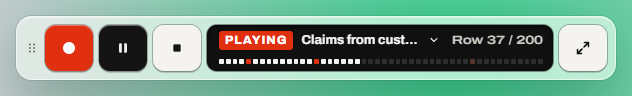
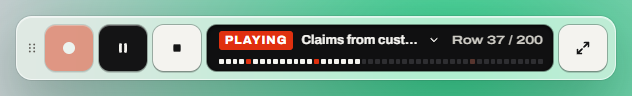
docs(design): triggered runs while editing, and the last open questions
A trigger that fires while the window is open shows the player in a
free corner, clear of the window and of the macro's clicks, and a
notice with Stop in the window; the open macro stays locked and isn't
drawn as playing, and a busy Relay skips the trigger and says so. The
prototype has a button to fire one, the tests two new states and
Hannah's second task (64 of 64 clean, 16 of 16 tasks). The round also
caught the trigger's announcement being overwritten, a disabled Pause
on the open macro and a record key left on during playback.

Decided: Archivo moves to its variable package, and the prototype stays
in the repo until m24-redesign merges, then goes.

Changed region(s): [[0.0601, 0.25, 0.1503, 0.75]]

diff --git a/Design/redesign/app.js b/Design/redesign/app.js
@@ -179,11 +179,13 @@ const st = {
   firstChoice: "ctrlshift",
   frame: q.get("frame"),
   playerMode: q.get("mode") === "player",
+  trigger: null, // { macro, by }: a run a trigger started
   macroSection: q.get("msec") ?? "play", // play | runs: the Macro tab's open section
 };
 if (q.get("step")) { const m = MACROS.find((x) => x.id === st.macroId); const st0 = m?.steps[Number(q.get("step")) - 1]; if (st0) { st.sel = new Set([st0.id]); st.cursor = st0.id; } }
 if (q.has("playing")) { st.session = "playing"; st.playerMacro = st.macroId; st.t = Number(q.get("playing")) || 6.1; st.row = 37; }
 if (q.has("recording")) { st.session = "recording"; st.playerMacro = st.macroId; st.recSteps = 14; }
+if (q.has("triggered")) { st.trigger = { macro: "timesheet", by: "Schedule" }; st.playerMacro = "timesheet"; st.session = "playing"; st.t = 3.2; }
 if (q.has("error")) { st.playerMacro = st.macroId; st.error = { text: "Pixel check timed out · step 10 · row 112", step: 10 }; st.failed = { macro: st.macroId, step: 10 }; }
 
 const macro = () => MACROS.find((m) => m.id === st.macroId) ?? MACROS[0];
@@ -307,10 +309,11 @@ function envBar() {
     <strong>PROTOTYPE</strong>
     <label>Screen <select data-env="screen">${["firstrun", "library", "activity", "editor", "settings"].map((x) => opt(x, st.screen, x === "firstrun" ? "first run" : x)).join("")}</select></label>
     <label>Windows <select data-env="os">${opt("win11", st.os, "11")}${opt("win10", st.os, "10")}</select></label>
-    <label>Transparency effects <select data-env="transparency">${opt("on", st.transparency ? "on" : "off", "on")}${opt("off", st.transparency ? "on" : "off", "off (or Remote Desktop)")}</select></label>
-    <label>Windows reduce motion <select data-env="systemMotion">${opt("full", st.systemMotion, "off")}${opt("reduce", st.systemMotion, "on")}</select></label>
+    <label>Transparency <select data-env="transparency">${opt("on", st.transparency ? "on" : "off", "on")}${opt("off", st.transparency ? "on" : "off", "off")}</select></label>
+    <label>Reduce motion <select data-env="systemMotion">${opt("full", st.systemMotion, "off")}${opt("reduce", st.systemMotion, "on")}</select></label>
     <label>Keyboard <select data-env="layout">${Object.keys(LAYOUT_NAME).map((k) => opt(k, st.layout, LAYOUT_NAME[k])).join("")}</select></label>
-    <label>Window <select data-env="winSize">${opt("min", st.winSize, "760 × 520 (minimum)")}${opt("default", st.winSize, "944 × 612 (default)")}${opt("large", st.winSize, "1280 × 800")}</select></label>
+    <label>Window <select data-env="winSize">${opt("min", st.winSize, "760 × 520")}${opt("default", st.winSize, "944 × 612")}${opt("large", st.winSize, "1280 × 800")}</select></label>
+    <button type="button" data-act="env-trigger" title="Fire the schedule of “Fill weekly timesheet”">Fire a trigger</button>
     <button type="button" data-act="env-reset">Reset</button>
   </div>`;
 }
@@ -421,14 +424,16 @@ function activityScreen() {
 function recordKey(withLabel) {
   const live = st.session === "recording" || st.session === "countdown";
   const k = comboText(st.keys.record);
+  const busy = st.session === "playing" || st.session === "paused" ? " disabled" : "";
   return withLabel
-    ? `<button class="key red${live ? " live" : ""}" type="button" data-act="record" data-fid="rec-lib" aria-label="${live ? "Stop recording" : "Record"} (${k})" title="${live ? "Stop recording" : "Record"} (${k})"><span class="rec-dot"></span>${live ? "Stop" : "Record"}</button>`
-    : `<button class="key red round${live ? " live" : ""}" type="button" data-act="record" data-fid="rec" aria-label="${live ? "Stop recording" : "Record a new macro"} (${k})" title="${live ? "Stop recording" : "Record a new macro"} (${k})"><span class="rec-dot"></span></button>`;
+    ? `<button class="key red${live ? " live" : ""}" type="button" data-act="record" data-fid="rec-lib"${busy} aria-label="${live ? "Stop recording" : "Record"} (${k})" title="${live ? "Stop recording" : "Record"} (${k})"><span class="rec-dot"></span>${live ? "Stop" : "Record"}</button>`
+    : `<button class="key red round${live ? " live" : ""}" type="button" data-act="record" data-fid="rec"${busy} aria-label="${live ? "Stop recording" : "Record a new macro"} (${k})" title="${live ? "Stop recording" : "Record a new macro"} (${k})"><span class="rec-dot"></span></button>`;
 }
 
 function editorScreen() {
   const m = macro();
   const playing = st.session === "playing" || st.session === "paused";
+  const otherRun = playing && st.playerMacro !== m.id;
   const pk = comboText(st.keys.play);
   const chips = [];
   chips.push(m.data ? `Each row (${m.data.rows})` : m.play.forever ? "∞" : `×${m.play.repeat}`);
@@ -446,7 +451,12 @@ function editorScreen() {
       <button class="key small icon-only" type="button" aria-label="Redo (Ctrl + Y)" title="Redo (Ctrl + Y)" data-act="redo" data-fid="redo"${st.redo.length && !playing ? "" : " disabled"}>${icon("redo")}</button>
       <span style="width:4px"></span>
       ${recordKey(false)}
-      <button class="key ink" type="button" data-act="play" data-fid="play" aria-label="${st.session === "playing" ? "Pause" : "Play"} (${pk})" title="${st.session === "playing" ? "Pause" : "Play from the playhead"} (${pk})">${icon(st.session === "playing" ? "pause" : "play", 14)}<span class="hide-tight">${st.session === "playing" ? "Pause" : "Play"}</span></button>
+      ${(() => {
+        const pausing = st.session === "playing" && !otherRun;
+        const runName = otherRun ? MACROS.find((x) => x.id === st.playerMacro)?.name : "";
+        const tip = otherRun ? `“${runName}” is running` : `${pausing ? "Pause" : "Play from the playhead"} (${pk})`;
+        return `<button class="key ink" type="button" data-act="play" data-fid="play"${otherRun ? " disabled" : ""} aria-label="${pausing ? "Pause" : "Play"} (${pk})" title="${esc(tip)}">${icon(pausing ? "pause" : "play", 14)}<span class="hide-tight">${pausing ? "Pause" : "Play"}</span></button>`;
+      })()}
       ${playing ? `<button class="key small icon-only" type="button" aria-label="Stop (Esc)" title="Stop (Esc)" data-act="stop" data-fid="stop">${icon("stop", 14)}</button>` : ""}
       <button class="chip" type="button" data-act="chips" data-fid="chips" aria-label="${esc(chipName)}" title="${esc(chipName)}">${chips.map((c) => `<span>${esc(c)}</span>`).join('<span aria-hidden="true" class="muted">·</span>')}${m.play.stopOnKey ? "" : `<span aria-hidden="true" class="muted">·</span><span style="color:var(--red-text)">keys don't stop it</span>`}</button>
       <button class="key ghost small icon-only" type="button" aria-label="More" title="More" aria-haspopup="menu" data-act="menu" data-menu="macro" data-fid="macro-more">${icon("more")}</button>
@@ -484,8 +494,9 @@ function stepsPlate(m) {
     const idx = m.steps.indexOf(x);
     const num = x.kind === "move" ? "" : `${idx + 1}`;
     const selected = st.sel.has(x.id);
-    const played = (st.session === "playing" || st.session === "paused" || st.t > 0) && x.t <= st.t;
-    const now = st.session === "playing" && x.t <= st.t && st.t - x.t < 0.5;
+    const here = st.playerMacro === m.id;
+    const played = here && (st.session === "playing" || st.session === "paused" || st.t > 0) && x.t <= st.t;
+    const now = here && st.session === "playing" && x.t <= st.t && st.t - x.t < 0.5;
     html.push(`<div class="step ${x.kind === "move" ? "move-row" : CAT[x.kind]}${selected ? "" : ""}${played ? " played" : ""}${now ? " now" : ""}${x.id === failedStep ? " failed" : ""}${x.id === cursor ? " cursor" : ""}"
       role="option" id="row-${x.id}" aria-selected="${selected}" data-row="${x.id}" aria-label="Step ${num}: ${esc(KIND_NAME[x.kind])}, ${esc(stepDetail(x))}${x.id === failedStep ? ", failed in the last run" : ""}">
       <span class="t num">${fmt(x.t)}</span>${glyph(x.kind)}<span class="what"><b>${esc(KIND_NAME[x.kind])}</b> <span>· ${esc(stepDetail(x))}</span></span><span class="end num">${x.id === failedStep ? "Timed out" : esc(stepEnd(x))}</span>
@@ -512,13 +523,14 @@ function inspector(m) {
   const sel = [...st.sel].map((id) => m.steps.find((x) => x.id === id) ?? all.find((x) => x.id === id)).filter(Boolean);
   const isMacro = st.tab === "macro";
   let body;
-  const playingNow = st.session === "playing" || st.session === "paused";
+  const playingNow = (st.session === "playing" || st.session === "paused") && st.playerMacro === m.id;
   if (isMacro) body = macroPane(m);
   else if (playingNow) body = `<div id="now-pane" style="display:flex;flex-direction:column;gap:12px">${nowPane(m)}</div>`;
   else if (sel.length > 1) body = multiPane(m, sel);
   else if (sel.length === 1) body = stepPane(m, sel[0]);
   else body = `<div class="empty" style="padding:24px 0"><b>No step selected</b><span>Select a step to edit it, or open the Macro tab for how the macro plays and when it runs.</span></div>`;
-  const locked = st.session !== "idle" && !isMacro ? `<div class="notice">${icon("lock", 14)}Stop playback to edit steps. Speed and the other play options can still change.</div>` : "";
+  const runName = st.session !== "idle" && st.playerMacro !== m.id ? MACROS.find((x) => x.id === st.playerMacro)?.name : null;
+  const locked = st.session !== "idle" && !isMacro ? `<div class="notice">${icon("lock", 14)}${runName ? `Stop “${esc(runName)}” to edit steps.` : "Stop playback to edit steps. Speed and the other play options can still change."}</div>` : "";
   return `<div class="plate inspector${st.inspOpen ? " open" : ""}" role="region" aria-label="Inspector">
     <div style="display:flex;gap:8px;align-items:center">
       <div class="tabs${isMacro ? " second" : ""}" role="tablist" aria-label="Inspector" style="flex:1">
@@ -666,7 +678,7 @@ function viewPlate(m, open) {
   const keysL = m.steps.filter((x) => CAT[x.kind] === "keys").map((x) => { const d = Math.max(x.dur ?? 0.3, 0.3); const l = x.kind === "keys" ? x.combo.join(" ") : x.kind === "type" ? "“" + x.text + "”" : "Text"; return `<div class="blk ky" title="${esc(l)}" style="left:${pct(x.t)};width:calc(${pct(d)} - 2px)">${fits(d, l) ? `<span class="bl">${esc(l)}</span>` : ""}</div>`; }).join("");
   const logicL = m.steps.filter((x) => CAT[x.kind] === "logic").map((x) => { const d = Math.max(x.dur ?? 0.5, 0.5); const l = x.kind === "wait" ? "Wait" : x.kind === "pixel" ? "Wait for" : "Find"; return `<div class="blk lg" title="${l}" style="left:${pct(x.t)};width:calc(${pct(d)} - 2px)">${fits(d, l) ? `<span class="bl">${l}</span>` : ""}</div>`; }).join("");
   const pauses = m.steps.filter((x) => x.pause >= 1).map((x) => `<div class="blk ht" style="left:${pct(x.t - x.pause)};width:${pct(x.pause)}"></div>`).join("");
-  const cur = st.t || (m.steps.find((x) => x.id === st.cursor)?.t ?? 0);
+  const cur = (st.playerMacro === m.id ? st.t : 0) || (m.steps.find((x) => x.id === st.cursor)?.t ?? 0);
   const curStep = [...m.steps].reverse().find((x) => x.t <= cur);
   // Preview: balloons on clicks, a path through them.
   const sx = (v) => 18 + (v / 1920) * 264, sy = (v) => 10 + (v / 1080) * 130;
@@ -860,7 +872,7 @@ function firstArt(step) {
 
 function playerHtml() {
   const m = MACROS.find((x) => x.id === (st.playerMacro ?? st.macroId)) ?? macro();
-  const show = windowAway() || st.frame === "player";
+  const show = windowAway() || st.frame === "player" || !!st.trigger;
   const dur = duration(m) || 1;
   let state = `<span class="state">READY</span>`, right = `${fmtShort(0)} / ${fmtShort(dur)}`;
   if (st.session === "countdown") { state = `<span class="state live">GET READY</span>`; right = `<span class="digit" style="font-size:16px">${st.count}</span>`; }
@@ -879,7 +891,7 @@ function playerHtml() {
   const live = st.session === "recording" || st.session === "countdown";
   return `<div class="player glass${st.playerSize === "large" ? " big" : ""}${show ? "" : " hidden"}" role="group" aria-label="Relay player" ${show ? "" : 'aria-hidden="true"'}>
     <span class="grip" aria-hidden="true">${icon("grip", 14)}</span>
-    <button class="key red${live ? " live" : ""}" type="button" data-act="record" data-fid="p-rec" aria-label="${live ? "Stop recording" : "Record"} (${comboText(st.keys.record)})" title="${live ? "Stop recording" : "Record"}"><span class="rec-dot"></span></button>
+    <button class="key red${live ? " live" : ""}" type="button" data-act="record" data-fid="p-rec"${st.session === "playing" || st.session === "paused" ? " disabled" : ""} aria-label="${live ? "Stop recording" : "Record"} (${comboText(st.keys.record)})" title="${live ? "Stop recording" : "Record"}"><span class="rec-dot"></span></button>
     <button class="key ink" type="button" data-act="play" data-fid="p-play" aria-label="${st.session === "playing" ? "Pause" : "Play"} (${comboText(st.keys.play)})" title="${st.session === "playing" ? "Pause" : "Play"}"${live ? " disabled" : ""}>${icon(st.session === "playing" ? "pause" : "play")}</button>
     <button class="key" type="button" data-act="stop" data-fid="p-stop" aria-label="Stop (Esc)" title="Stop (Esc)">${icon("stop", 14)}</button>
     <div class="screen${st.done ? " flash" : ""}">
@@ -901,8 +913,11 @@ function exportedHtml() {
 }
 
 function toastsHtml() {
-  if (!st.toasts.length) return "";
-  return `<div class="toasts">${st.toasts.map((t) => `<div class="toast ${t.kind === "error" ? "error" : ""}" role="${t.kind === "error" ? "alert" : "status"}">
+  const tr = st.trigger && MACROS.find((x) => x.id === st.trigger.macro);
+  const notice = tr ? `<div class="toast run" role="status"><span class="rec-dot" aria-hidden="true"></span><span class="msg">Running “${esc(tr.name)}”, started by its ${esc(st.trigger.by.toLowerCase())}</span>
+    <button class="key small" type="button" data-act="stop-trigger" data-fid="stop-trigger">${icon("stop", 12)}Stop</button></div>` : "";
+  if (!st.toasts.length && !notice) return "";
+  return `<div class="toasts">${notice}${st.toasts.map((t) => `<div class="toast ${t.kind === "error" ? "error" : ""}" role="${t.kind === "error" ? "alert" : "status"}">
     <span class="msg">${esc(t.msg)}</span>${t.action ? `<button class="key small" type="button" data-act="toast-action" data-id="${t.id}" data-fid="toast-${t.id}">${esc(t.action.label)}</button>` : ""}
     <button class="key ghost small icon-only" type="button" aria-label="Dismiss" data-act="toast-close" data-id="${t.id}" data-fid="toastx-${t.id}" style="--key-fg:inherit">${icon("close", 12)}</button></div>`).join("")}</div>`;
 }
@@ -978,7 +993,7 @@ function render() {
     <div class="desktop">
       <div class="app-behind" aria-hidden="true"><div class="bar">Invoices.xlsx</div><span class="cell" style="left:12px;top:40px">ACME Ltd</span><span class="cell" style="left:140px;top:40px">F-1042</span><span class="cell" style="left:12px;top:62px">Globex</span><span class="cell" style="left:140px;top:62px">F-1043</span></div>
       ${win && st.frame !== "icons" ? `<div class="win-pos">${win}</div>` : win}
-      ${st.frame === "icons" ? "" : `<div class="player-pos">${playerHtml()}</div>`}
+      ${st.frame === "icons" ? "" : `<div class="player-pos${st.trigger && !windowAway() ? ` corner ${playerCorner()}` : ""}">${playerHtml()}</div>`}
       ${exportedHtml()}
       ${pickerHtml()}
       <div class="taskbar" aria-hidden="true"></div>
@@ -1067,13 +1082,34 @@ function stopRecording() {
   render();
   const nm = document.querySelector('[data-fid="name"]'); nm?.focus(); nm?.select();
 }
+function triggerRun(id, by) {
+  const m = MACROS.find((x) => x.id === id);
+  if (st.session !== "idle") {
+    RUNS.unshift({ macro: id, by, when: "Just now", ok: null, end: "Skipped: Relay was busy", dur: "", checks: [] });
+    toast(`Skipped “${m.name}”: Relay was busy`);
+    render(); return;
+  }
+  st.trigger = { macro: id, by }; st.playerMacro = id; st.t = 0; st.row = 1;
+  announce(`${m.name} started by its ${by.toLowerCase()}. Press ${comboText(st.keys.kill)} or Stop to stop it.`);
+  play();
+}
+// The corner the player takes during a triggered run: clear of the window and of the macro's clicks.
+function playerCorner() {
+  const win = document.querySelector(".window")?.getBoundingClientRect();
+  const m = MACROS.find((x) => x.id === st.trigger?.macro);
+  const clicks = (m?.steps ?? []).filter((x) => x.kind === "click").map((x) => [(x.x / 1920) * innerWidth, 40 + (x.y / 1080) * (innerHeight - 40)]);
+  const W = 600 * Math.min(zoom(), 1.5), H = 64 * Math.min(zoom(), 1.5), M = 16;
+  const rects = { "top-right": [innerWidth - M - W, 40 + M], "top-left": [M, 40 + M], "bottom-right": [innerWidth - M - W, innerHeight - 56 - H], "bottom-left": [M, innerHeight - 56 - H] };
+  const hits = ([x, y]) => (win && x < win.right && x + W > win.left && y < win.bottom && y + H > win.top) || clicks.some(([cx, cy]) => cx >= x && cx <= x + W && cy >= y && cy <= y + H);
+  return Object.keys(rects).find((k) => !hits(rects[k])) ?? "top-right";
+}
 function play() {
   if (st.session === "recording" || st.session === "countdown") return;
   if (st.session === "playing") { st.session = "paused"; clearTimer(); announce("Paused"); render(); return; }
   const m = MACROS.find((x) => x.id === (st.playerMacro ?? st.macroId)) ?? macro();
   st.playerMacro = m.id; st.error = null; st.done = false; st.menu = null;
   if (st.session !== "paused") { st.t = 0; st.row = 1; }
-  st.session = "playing"; announce(`Playing ${m.name}`); render();
+  st.session = "playing"; if (!st.trigger) announce(`Playing ${m.name}`); render();
   const dur = duration(m), t0 = performance.now(), from = st.t;
   timer = setInterval(() => {
     st.t = Math.min(dur, from + ((performance.now() - t0) / 1000) * 1.6 * m.play.speed);
@@ -1117,7 +1153,8 @@ function tickPlayback(m) {
 function finish(m) {
   clearTimer(); st.session = "idle"; st.done = true; st.t = duration(m);
   m.last = { ok: true, text: "Just now" };
-  RUNS.unshift({ macro: m.id, by: "Play", when: "Just now", ok: true, end: "Completed", dur: `${duration(m).toFixed(1)} s`, checks: [] });
+  RUNS.unshift({ macro: m.id, by: st.trigger?.by ?? "Play", when: "Just now", ok: true, end: "Completed", dur: `${duration(m).toFixed(1)} s`, checks: [] });
+  if (st.trigger) { st.trigger = null; st.t = 0; toast(`“${m.name}” finished`); }
   SOUND.done(); announce(`${m.name} finished.`);
   render();
   setTimeout(() => { st.done = false; render(); }, 1600);
@@ -1125,7 +1162,8 @@ function finish(m) {
 function fail(m, step, text) {
   clearTimer(); st.session = "idle"; st.error = { text, step }; st.failed = { macro: m.id, step }; st.t = m.steps[step - 1]?.t ?? st.t;
   m.last = { ok: false, text: "Just now" };
-  RUNS.unshift({ macro: m.id, by: "Play", when: "Just now", ok: false, end: `Pixel check timed out at step ${step}, row ${st.row}`, sub: "PolicyNo 88-1042", dur: "", step, checks: [] });
+  RUNS.unshift({ macro: m.id, by: st.trigger?.by ?? "Play", when: "Just now", ok: false, end: `Pixel check timed out at step ${step}, row ${st.row}`, sub: "PolicyNo 88-1042", dur: "", step, checks: [] });
+  st.trigger = null;
   SOUND.error(); announce(`${m.name} stopped: ${text}`);
   if (!windowAway()) toast(`${m.name} stopped: ${text.replace(/ · /g, ", ")}`, { kind: "error" });
   render();
@@ -1134,7 +1172,7 @@ function fail(m, step, text) {
 function stop() {
   const was = st.session; clearTimer();
   if (was === "recording" || was === "countdown") { if (was === "countdown") { st.session = "idle"; announce("Recording cancelled."); render(); return; } stopRecording(); return; }
-  st.session = "idle"; st.t = 0; st.done = false; if (was !== "idle") { SOUND.stop(); announce("Stopped."); }
+  st.session = "idle"; st.t = 0; st.done = false; st.trigger = null; if (was !== "idle") { SOUND.stop(); announce("Stopped."); }
   render();
 }
 
@@ -1335,6 +1373,8 @@ document.addEventListener("click", (e) => {
     case "first-skip": st.screen = "library"; return doRender();
     case "first-choice": st.firstChoice = t.dataset.v; return doRender();
     case "env-reset": location.search = ""; return;
+    case "env-trigger": return triggerRun("timesheet", "Schedule");
+    case "stop-trigger": return stop();
     case "segnop": return;
   }
 });
@@ -1478,6 +1518,6 @@ document.addEventListener("keydown", (e) => {
   }
 });
 
-window.relayProto = { st, MACROS, render, play, startRecording, stop };
+window.relayProto = { st, MACROS, RUNS, render, play, startRecording, stop };
 render();
 })();

diff --git a/Design/redesign/relay.css b/Design/redesign/relay.css
@@ -640,3 +640,14 @@ table.macros tr.sel td { background: var(--plate-2); }
 
 /* While picking from the screen, Relay steps aside so what is behind it can be picked. */
 .picking .win-pos { opacity: 0; pointer-events: none; transition: opacity 150ms var(--ease); }
+
+/* A triggered run while the window is open: the player takes a free corner, the window says what runs. */
+.player-pos.corner { transform: none; left: auto; right: auto; bottom: auto; top: auto; }
+.player-pos.corner.top-right { right: 16px; top: 56px; }
+.player-pos.corner.top-left { left: 16px; top: 56px; }
+.player-pos.corner.bottom-right { right: 16px; bottom: 56px; }
+.player-pos.corner.bottom-left { left: 16px; bottom: 56px; }
+.toast.run { background: var(--plate); color: var(--text); box-shadow: 0 0 0 1.5px var(--red), var(--shadow-pop); }
+.toast.run .rec-dot { color: var(--red); animation: breathe-dot 1.6s ease-in-out infinite; }
+@keyframes breathe-dot { 50% { opacity: 0.45; } }
+.calm .toast.run .rec-dot { animation: none; }

diff --git a/docs/design/visual-redesign.md b/docs/design/visual-redesign.md
@@ -16,6 +16,9 @@ Relay's new look: minimalist and modernist, with subtly rounded corners, frosted
 > - **Sounds** are in, off by default.
 > - **Frosted glass** is on by default on Windows 11 (Acrylic) and off by default on Windows 10 (solid), with a switch in Settings.
 > - **Icons:** Relay draws its own set.
+> - **Archivo** switches to its variable package, for the width axis.
+> - **The prototype** stays in the repo until `m24-redesign` merges, then goes.
+> - **A trigger firing while the window is open** shows the player in a free corner, and a notice with Stop in the window.
 
 <p align="center"><img src="images/proto-editor.png" alt="The macro editor in the new look: a frosted window, color-blocked steps, the inspector, and the view with numbered callouts and the timeline" width="820"></p>
 
@@ -34,7 +37,7 @@ Relay's new look: minimalist and modernist, with subtly rounded corners, frosted
 - [Exported programs](#exported-programs)
 - [Accessibility guardrails](#accessibility-guardrails)
 - [The prototype, tested](#the-prototype-tested)
-- [Open questions](#open-questions)
+- [Decided after the prototype](#decided-after-the-prototype)
 
 ## Where it comes from
 
@@ -102,7 +105,7 @@ Relay's new look: minimalist and modernist, with subtly rounded corners, frosted
 
 ### Type
 
-Archivo stays, as the **variable** font, for its width axis:
+Archivo stays, as the **variable** font, for its width axis. Relay bundles `@fontsource/archivo` today, which has fixed weights only; it switches to the variable package (`@fontsource-variable/archivo`), and checks the width axis is in it when it's installed:
 
 | Role | Setting | Use |
 | --- | --- | --- |
@@ -219,6 +222,10 @@ Relay draws its own icons: 59 of them, on one 16 px grid, with 1.6 px strokes an
 
 <p align="center"><img src="images/proto-player.png" alt="The player playing row 37 of 200" width="600"><br><img src="images/proto-player-recording.png" alt="The player recording: REC, 14 steps, the last step" width="600"><br><img src="images/proto-player-error.png" alt="The player stopped: Pixel check timed out at step 10, row 112" width="600"><br><img src="images/proto-player-large-dark.png" alt="The large player in the dark theme" width="760"></p>
 
+**A trigger fires while you're editing another macro:** the player shows in a corner that's clear of the window and of the macro's clicks (top right on most screens, since the window sits at the bottom), and the window says what's running, with **Stop**. The open macro's **Play** is off and its steps are locked until the run ends; it isn't drawn as playing. If Relay was already busy, the trigger is skipped and says so (*Skipped "Fill weekly timesheet": Relay was busy*), in the run history too:
+
+<p align="center"><img src="images/proto-triggered.png" alt="A scheduled run of Fill weekly timesheet while Export invoice to PDF is open: the player at the top right, a notice with Stop in the window" width="820"></p>
+
 **Picking from the screen:** Relay steps aside, the loupe shows the pixel and its color, and the arrow keys nudge it:
 
 <p align="center"><img src="images/proto-picker.png" alt="The picker's loupe over a spreadsheet's title bar: 330, 62, #1F7A45" width="820"></p>
@@ -301,7 +308,7 @@ The prototype was put through the panel again, this time by doing their tasks in
 
 ### What was tested
 
-- **Every screen and state:** 62 in all, across the first run, the Library, Problems, the editor, the Macro tab, every step type, menus, the export dialog, every Settings section, key capture with its warnings, and the player in each state. They were also run in dark, solid, Windows 10, no transparency, every spacing, 150% and 200% text, the minimum and a large window, the picker, the exported program and the icon sheet.
+- **Every screen and state:** 64 in all, across the first run, the Library, Problems, the editor, the Macro tab, every step type, menus, the export dialog, every Settings section, key capture with its warnings, and the player in each state, and a triggered run while the window is open. They were also run in dark, solid, Windows 10, no transparency, every spacing, 150% and 200% text, the minimum and a large window, the picker, the exported program and the icon sheet.
 - **On each one, an audit in the page:**
   - the contrast of every text against its real background, glass composited over a black and a white wallpaper;
   - text under 12 px;
@@ -312,7 +319,7 @@ The prototype was put through the panel again, this time by doing their tasks in
 - **Emulations:** Windows contrast themes (`forced-colors`); protanopia, deuteranopia and achromatopsia; blurred vision at 150% text; reduce motion, with a check that nothing animates.
 - **The accessibility tree** of every state: roles and names.
 - **Keyboard:** a Tab walk through the editor (every stop must show a focus ring), and the steps list's keys: arrows, <kbd>Shift</kbd>-select, <kbd>Del</kbd>, <kbd>Ctrl</kbd>+<kbd>Z</kbd>, <kbd>Insert</kbd>, <kbd>Enter</kbd>, <kbd>Esc</kbd>, <kbd>Ctrl</kbd>+<kbd>M</kbd>.
-- **15 panel tasks,** done in the prototype with clicks and keys, each step checked:
+- **16 panel tasks,** done in the prototype with clicks and keys, each step checked:
 
 | Persona | Task | Actions |
 | --- | --- | --- |
@@ -330,6 +337,7 @@ The prototype was put through the panel again, this time by doing their tasks in
 | Mateo (P8) | Edit in the minimum window | 2 |
 | Viktor (P9) | Select all, show moves, back to the Library, all by keyboard | 4 |
 | Hannah (P12) | See what runs when, from the Library and the Macro tab; change the days | 4 |
+| Hannah (P12) | A schedule fires while editing another macro: the player in a free corner, the notice, Stop; then a skip because Relay is busy | 3 |
 | Grace (P13) | Find a macro among many, select two for export | 3 |
 
 ### The rounds
@@ -339,9 +347,10 @@ The prototype was put through the panel again, this time by doing their tasks in
 | 1, first build | 9 / 57 | 44 | 69 | 127 | 185 | 89 | not run (the list's keys failed) |
 | 2 | 50 / 60 | 24 | 0 | 2 | 0 | 103 | 11 / 15 |
 | 3 | 54 / 62 | 0 | 0 | 17 | 0 | 19 | 14 / 15 |
-| 4 and final | **62 / 62** | **0** | **0** | **0** | **0** | **0** | **15 / 15** |
+| 4 | 62 / 62 | 0 | 0 | 0 | 0 | 0 | 15 / 15 |
+| Final, with triggered runs | **64 / 64** | **0** | **0** | **0** | **0** | **0** | **16 / 16** |
 
-Counts are issues across all states (one bad control on 10 screens counts 10). Rounds 2 and 3 also included false alarms from the audit itself, which then learned to read `color-mix()` backgrounds and to skip rows scrolled out of view; the final round uses the corrected audit throughout.
+Counts are issues across all states (one bad control on 10 screens counts 10). The final round added the two triggered-run states and Hannah's second task after the maintainer's decision on triggered runs. Rounds 2 and 3 also included false alarms from the audit itself, which then learned to read `color-mix()` backgrounds and to skip rows scrolled out of view; the final round uses the corrected audit throughout.
 
 ### What the rounds found, and what changed
 
@@ -373,6 +382,9 @@ Counts are issues across all states (one bad control on 10 screens counts 10). R
 | 24 | The exported program's name was cut to "E…" | Screenshots | Dee (P4) | Name on the top line, progress and time below |
 | 25 | Secondary text in dark fell to 4.4:1 on yellow rows | The audit | Ruth (P5) | Dark secondary text `#B3B1AB` |
 | 26 | Green *✓ Yesterday* fell to 4.3:1 on a hovered row | The audit | Ruth (P5) | Green text `#0E6B3D` |
+| 27 | A triggered run's announcement (*started by its schedule*) was replaced at once by a plain *Playing…* | Hannah's second task | Priya (P7) | The trigger's announcement is the one heard |
+| 28 | During another macro's run, the open macro's Play showed a disabled *Pause* | Screenshots | Hannah (P12), Linda (P11) | It shows *Play*, off, with a tooltip saying what's running; the lock note names it too |
+| 29 | The record key stayed clickable during playback, though Relay can't record then | Screenshots | Everyone | Off during playback, in the window and the player |
 
 **Checked and working from the first round:** key capture's warnings (F9, AltGr, Remote Desktop) and refusals, the first run's preselected keys, reduce motion (no animation running), the Tab order and focus rings, the accessibility tree's names and roles, and the protanopia, deuteranopia and achromatopsia views, where the shapes carry the categories.
 
@@ -421,11 +433,17 @@ node Design/redesign/tests/tasks.mjs final
 
 `run.mjs` writes a screenshot and an audit of every state to `tests/out/<round>/`, and `tasks.mjs` the panel's tasks with each step's result.
 
-## Open questions
+## Decided after the prototype
 
-1. **Archivo's width axis:** the variable font is needed for the condensed labels and wide numerals; does the package Relay bundles carry it, or should it switch packages?
-2. **The prototype's home:** keep `Design/redesign/` as the reference while building `m24-redesign`, or move the spec to Claude Design once its access works here?
-3. **Triggered runs with the window open:** a triggered run while you're editing another macro plays without the player, since the window is open. Should the player show anyway, small, for triggered runs?
+The three questions the prototype round left, decided by the maintainer on 2026-10-23:
+
+| Question | Decision |
+| --- | --- |
+| Archivo's width axis | Switch to the variable package, `@fontsource-variable/archivo`, and check its width axis when it's installed |
+| Where the prototype lives | In `Design/redesign/` until `m24-redesign` merges; the milestone's last commit removes it |
+| A trigger firing while the window is open | The player in a free corner (clear of the window and the macro's clicks), and a notice with **Stop** in the window; tested in the final round |
+
+Nothing is left open from the panel's rounds. What's left to learn needs Windows itself and real people (see [What the prototype can't tell](#what-the-prototype-cant-tell)).
 
 ---
 

diff --git a/docs/design/ux-research-panel.md b/docs/design/ux-research-panel.md
@@ -1092,6 +1092,7 @@ flowchart LR
 - **One window, two forms**, as today: the **window** (Library, Macro, Settings) and the **player**. The window becomes a normal, resizable window that doesn't float by default. The player floats.
 - **Three places in the window** instead of four tabs over five panes. You move between them like pages: Library → a macro → back.
 - **The player shows whenever the window doesn't.** While recording, the window hides and the player shows, so Relay never covers the app being recorded and widget clicks stop being a trap. While playing, the window stays where it is but isn't on top, so you can keep it beside the app to watch the steps follow along; its top bar has Pause and Stop, so the player isn't needed and doesn't cover it. Both are settings. **(R2)** The prototype showed that a player on top of a visible window covers the view and steals its clicks (see [the prototype round](visual-redesign.md#the-prototype-tested)).
+- **A trigger firing while the window is open** (the maintainer's decision): the player shows in a free corner, clear of the window and of the macro's clicks, and the window says what's running, with **Stop**. A run you didn't start needs a stop that's always on top, and the window may be behind your app.
 - **Focus:** the player never takes the keyboard, as the compact player today. When the window comes back after a recording, the focus is on the new macro's name, and screen readers hear *Recording stopped, 14 steps. Name this macro.* **(R7)**
 
 This answers [disagreement 9](#9-one-window-or-two): one window, with a home for the collection, and the bar for those who live in it.
@@ -1528,7 +1529,7 @@ A redesign of this size goes faster designed first, then built in one go, than b
 1. **Specify.** The structure, screens and components above, turned into a design spec with hi-fi mockups, in `Design/` next to the original prototype, using the same design system.
 2. **Prototype.** A clickable prototype (the `.dc.html` format works) of the Library, the editor with its Step and Macro tabs, the player, Relay's keys and the first run.
 3. **Test the prototype** with real users before building: the [studies below](#studies), especially the task test, the first-click test and the accessibility sessions. Change the design, not the code.
-4. **Build** in **one milestone**, `m24-redesign`, replacing the old UI rather than keeping both: tokens and components first, then the window and navigation, the editor, the Library and Activity, the player, Settings, Relay's keys and the first run. The store (`relay.svelte.ts`) stays and grows what the new screens need; the backend gains settable keys (registration, conflict checks, the AltGr check on the current layout) and the hide/show of the window around sessions. The component tests and E2E suites move with each screen. The PR stays a draft until the whole redesign is in, then merges once.
+4. **Build** in **one milestone**, `m24-redesign`, replacing the old UI rather than keeping both, with the [prototype](../../Design/redesign/prototype.html) and its tests as the reference until the milestone's last commit removes them. Archivo moves to its variable package. The order: tokens and components first, then the window and navigation, the editor, the Library and Activity, the player, Settings, Relay's keys and the first run. The store (`relay.svelte.ts`) stays and grows what the new screens need; the backend gains settable keys (registration, conflict checks, the AltGr check on the current layout) and the hide/show of the window around sessions. The component tests and E2E suites move with each screen. The PR stays a draft until the whole redesign is in, then merges once.
 5. **Document.** The user guide is the spec, so it's rewritten with the UI, and `scripts/docs-screenshots.ps1` regenerates every image.
 
 ## The panel reviews the redesign
